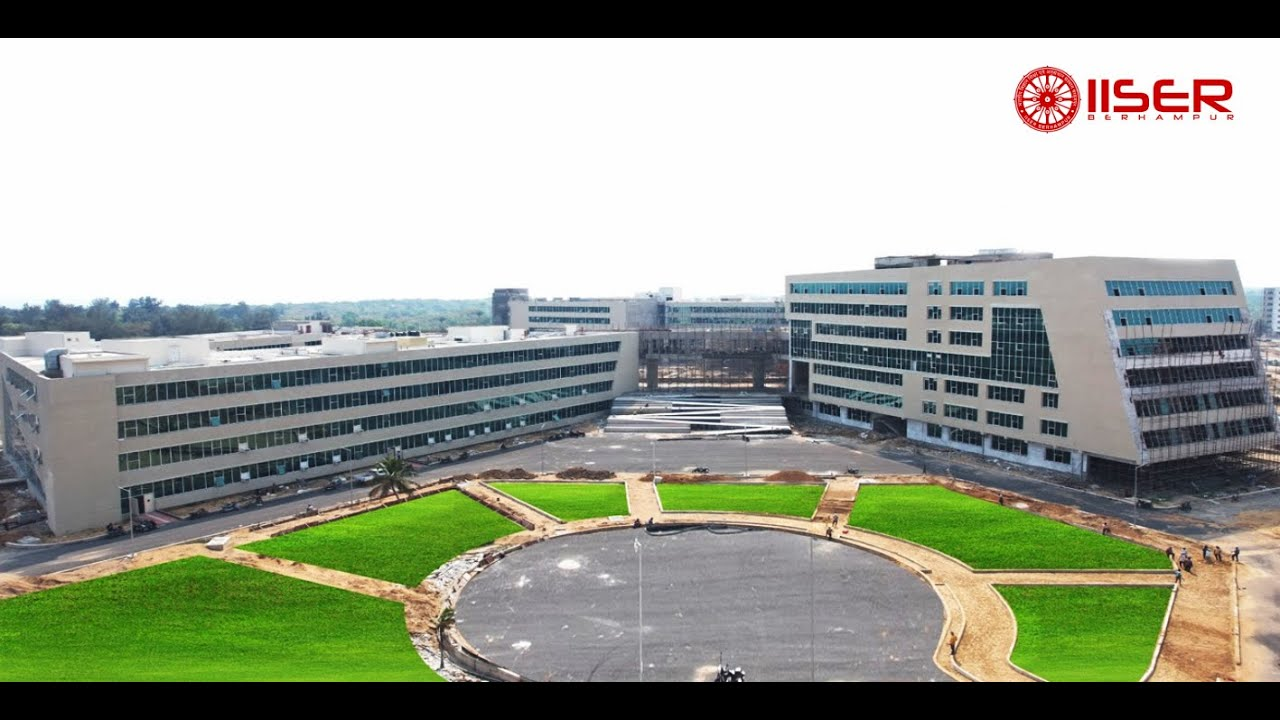
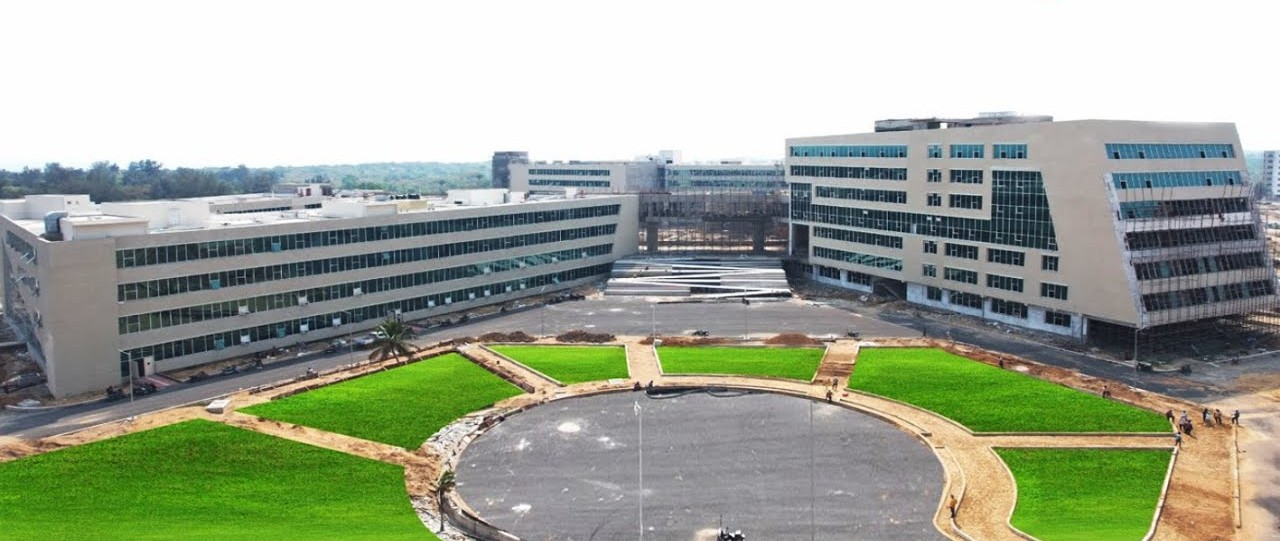
fixed the design, made responsive

diff --git a/caif/src/component/LandingPage.jsx b/caif/src/component/LandingPage.jsx
@@ -9,32 +9,34 @@ function LandingPage() {
   return (
     <div className="landing-page">
       <LandingNavbar />
-      <ImageCarousel />
-    <div className="content-container mt-5">
-      <p>
-      The Central Analytical Instrumentation Facility (CAIF) at IISER Berhampur represents a significant advancement 
-      in research infrastructure accessibility, serving as a vital hub for scientists, researchers, and academics who require 
-      sophisticated analytical equipment but may not have the means to purchase or maintain such costly instruments independently. 
-      By operating on a rental model, the facility democratizes access to cutting-edge research tools, allowing researchers from 
-      various institutions and even industry partners to conduct their experiments using high-precision instruments under expert guidance. 
-      This approach not only maximizes the utilization of expensive equipment but also creates a collaborative environment where researchers 
-      can share knowledge and expertise while working with these advanced tools.
-      </p>
-      <p>
-      The impact of CAIF extends far beyond mere equipment access, as it plays a crucial role in advancing scientific 
-      research across multiple disciplines, from materials science and chemistry to biological sciences and environmental studies. 
-      The facility's comprehensive range of analytical instruments, coupled with its professional support staff, enables researchers 
-      to obtain precise, reliable data that meets international standards. This has led to enhanced research output quality, accelerated 
-      project timelines, and increased opportunities for breakthrough discoveries. Furthermore, the facility's presence at IISER Berhampur 
-      has strengthened the institution's position as a center of excellence in scientific research, attracting collaborations with other research 
-      institutions and industry partners while providing valuable hands-on experience to students and early-career researchers who might otherwise 
-      not have access to such sophisticated instrumentation.
-      </p>
-      <InstrumentsSection />
-      <section id="faqSection">
-        <FAQ />
-      </section>
-    </div>
+      <div className="full-width-carousel">
+        <ImageCarousel />
+      </div>
+      <div className="content-container mt-5">
+        <p>
+          The Central Analytical Instrumentation Facility (CAIF) at IISER Berhampur represents a significant advancement
+          in research infrastructure accessibility, serving as a vital hub for scientists, researchers, and academics who require
+          sophisticated analytical equipment but may not have the means to purchase or maintain such costly instruments independently.
+          By operating on a rental model, the facility democratizes access to cutting-edge research tools, allowing researchers from
+          various institutions and even industry partners to conduct their experiments using high-precision instruments under expert guidance.
+          This approach not only maximizes the utilization of expensive equipment but also creates a collaborative environment where researchers
+          can share knowledge and expertise while working with these advanced tools.
+        </p>
+        <p>
+          The impact of CAIF extends far beyond mere equipment access, as it plays a crucial role in advancing scientific
+          research across multiple disciplines, from materials science and chemistry to biological sciences and environmental studies.
+          The facility's comprehensive range of analytical instruments, coupled with its professional support staff, enables researchers
+          to obtain precise, reliable data that meets international standards. This has led to enhanced research output quality, accelerated
+          project timelines, and increased opportunities for breakthrough discoveries. Furthermore, the facility's presence at IISER Berhampur
+          has strengthened the institution's position as a center of excellence in scientific research, attracting collaborations with other research
+          institutions and industry partners while providing valuable hands-on experience to students and early-career researchers who might otherwise
+          not have access to such sophisticated instrumentation.
+        </p>
+        <InstrumentsSection />
+        <section id="faqSection">
+          <FAQ />
+        </section>
+      </div>
     </div>
   );
 }

diff --git a/caif/src/css files/PostLogin.css b/caif/src/css files/PostLogin.css
@@ -11,10 +11,10 @@
 
 .view-lab-container {
   flex-grow: 1;
-  padding: 20px;
+  padding: 85px;
   background-color: #DFF6E8;
-  margin-top: 100px;
-  margin-bottom: 50px;
+  margin-top: 50px;
+  margin-bottom: 0;
 }
 
 h1 {
@@ -86,10 +86,12 @@ h1 {
 
 .card-body {
   padding: 15px;
-  background-color: #f8f8f8; /* Light gray background */
+  background-color: #f8f8f8;
+  /* Light gray background */
   display: flex;
   flex-direction: column;
-  align-items: flex-end; /* Align items to the right */
+  align-items: flex-end;
+  /* Align items to the right */
 }
 
 .card-title {
@@ -97,16 +99,20 @@ h1 {
   margin-bottom: 5px;
   font-size: 18px;
   font-weight: bold;
-  align-self: flex-start; /* Align title to the left */
-  width: 100%; /* Ensure full width */
+  align-self: flex-start;
+  /* Align title to the left */
+  width: 100%;
+  /* Ensure full width */
 }
 
 .card-text {
   color: #616161;
   margin-bottom: 15px;
   font-size: 14px;
-  align-self: flex-start; /* Align description to the left */
-  width: 100%; /* Ensure full width */
+  align-self: flex-start;
+  /* Align description to the left */
+  width: 100%;
+  /* Ensure full width */
 }
 
 .btn-add {
@@ -123,7 +129,8 @@ h1 {
   letter-spacing: 0.5px;
   width: auto;
   display: inline-block;
-  align-self: flex-end; /* Align button to the right */
+  align-self: flex-end;
+  /* Align button to the right */
 }
 
 .btn-add:hover {

diff --git a/caif/src/App.jsx b/caif/src/App.jsx
@@ -1,15 +1,11 @@
 import React from "react";
 import { BrowserRouter as Router, Routes, Route } from "react-router-dom";
-import LandingNavbar from "./component/LandingNavbar";
 import LandingPage from "./component/LandingPage";
 import Footer from "./component/Footer";
-import FAQ from "./pages/FAQ";
 import Login from "./pages/Login";
 import SignUp from "./pages/Signup";
 import ResetPassword from "./pages/Resetpwd";
-import Navbar from "./component/Navbar"; // Import Navbar
 import FAQ1 from "./component/FAQ1";
-import PostLogin from "./pages/PostLogin";
 import ViewLab from "./pages/PostLogin";
 import Records from "./component/Records";
 import { AuthProvider } from "./context/AuthContext"; // Import your AuthProvider
@@ -21,10 +17,9 @@ function App() {
       {/* Wrap your Router with AuthProvider */}
       <Router>
         <div>
-          <div className="container">
+          <div> 
             <Routes>
               <Route path="/" element={<LandingPage />} />
-              {/* <Route path="/faq" element={<FAQ />} /> */}
               <Route path="/login" element={<Login />} />
               <Route path="/signup" element={<SignUp />} />
               <Route path="/resetpwd" element={<ResetPassword />} />

diff --git a/caif/src/css files/ImageCarousel.css b/caif/src/css files/ImageCarousel.css
@@ -1,12 +1,13 @@
 .carousel-wrapper {
-  width: 100% !important;
+  width: 100%;
   position: relative;
+  max-width: 100%;
 }
 
 .carousel {
   position: relative;
-  width: 100% !important;
-  height: 600px;
+  width: 100%;
+  height: 620px;
   overflow: hidden;
 }
 
@@ -23,7 +24,7 @@
   width: 100%;
   height: 100%;
   opacity: 0;
-  transition: opacity 0.6s ease-in-out;
+  transition: opacity 0.5s ease-in-out;
 }
 
 .carousel-slide.active {
@@ -97,16 +98,8 @@
     height: 400px;
   }
   
-  .carousel-content h2 {
-    font-size: 1.8rem;
-  }
-
-  .carousel-content p {
-    font-size: 1rem;
-  }
-  
   .carousel-content {
-    width: 90%;
+    width: 80%;
     padding: 1.5rem;
   }
 }

diff --git a/caif/src/css files/LandingPage.css b/caif/src/css files/LandingPage.css
@@ -1,4 +1,33 @@
-.landing-page {
-    width: 100%;
-    overflow-x: hidden;
+.landing-page-container {
+  width: 100%;
+  margin: 0;
+  padding: 0;
+  overflow-x: hidden;
+}
+
+.full-width-carousel {
+  width: 100vw;
+  position: relative;
+  left: 50%;
+  right: 50%;
+  margin-left: -50vw;
+  margin-right: -50vw;
+}
+
+.content-wrapper {
+  width: 100%;
+  display: flex;
+  justify-content: center;
+  background-color: #f5f5f5;
+}
+
+.content-container {
+  max-width: 1280px;
+  margin: 0 auto;
+}
+
+@media (max-width: 768px) {
+  .content-container {
+    padding: 1rem;
   }
+}

diff --git a/caif/src/css files/Navbar.css b/caif/src/css files/Navbar.css
@@ -74,3 +74,34 @@
 .profile-dropdown a:hover {
   background-color: #f0f0f0; /* Light grey on hover */
 }
+
+@media (max-width: 500px) {
+  .navbar h3{
+    font-size: 1.2rem;
+  }
+
+  .profile-pic{
+    width: 25px;
+    height: 25px;
+  }
+
+  .menu-btn {
+    font-size: 1rem;
+  }
+}
+
+@media (max-width: 500px)  {
+  .navbar h3{
+    font-size: 1rem;
+    margin-top: 0.2rem;
+  }
+
+  .profile-pic{
+    width: 20px;
+    height: 20px;
+  }
+
+  .menu-btn {
+    font-size: 0.7rem;
+  }
+}

diff --git a/caif/src/css files/Footer.css b/caif/src/css files/Footer.css
@@ -6,3 +6,22 @@
 .custom:hover{
     color: rgb(179, 179, 179);
 }
+
+@media (max-width: 770px) {
+    .container {
+        font-size: 1rem;
+        display: flex;
+        align-items: center;
+        justify-content: center;
+        flex-direction: column;
+        gap: 1rem;
+    }
+
+    .para-container{
+        display: flex;
+        align-items: center;
+        justify-content: center;
+        flex-direction: column;
+        gap: 1.5rem;
+    }
+}

diff --git a/caif/src/component/Footer.jsx b/caif/src/component/Footer.jsx
@@ -5,7 +5,7 @@ function Footer() {
   return (
     <footer className="bg-success text-white py-4">
       <div className="container">
-        <div className="row">
+        <div className="row para-container">
           <div className="col-md-4">
             <h5>CAIF Department</h5>
             <p className="mb-0 me-4">

diff --git a/caif/src/component/FAQ1.jsx b/caif/src/component/FAQ1.jsx
@@ -39,9 +39,9 @@ function FAQ1() {
 
         .faq-container {
           flex-grow: 1;
-          padding: 20px;
+          padding: 100px;
           background-color: #DFF6E8;
-          margin-top: 110px;
+          margin-top: 50px;
         }
 
         h1 {

diff --git a/caif/src/App.css b/caif/src/App.css
@@ -4,11 +4,11 @@
   padding: 0;
 }
 
-.container {
+/* .container {
   max-width: 1280px;
   margin: 0 auto;
   padding: 2rem;
-}
+} */
 
 .logo {
   height: 6em;

diff --git a/caif/src/css files/Records.css b/caif/src/css files/Records.css
@@ -12,7 +12,7 @@
   
   .records-container {
     flex: 1;
-    padding: 110px;
+    padding: 120px;
     background-color: #DFF6E8;
     overflow-y: auto;
   }

diff --git a/caif/src/css files/FAQ1.css b/caif/src/css files/FAQ1.css
@@ -15,7 +15,7 @@
 .faq-page {
   display: flex;
   flex-direction: column;
-  min-height: 100vh;
+  min-height: 100vh; 
 }
 
 .content-wrapper {
